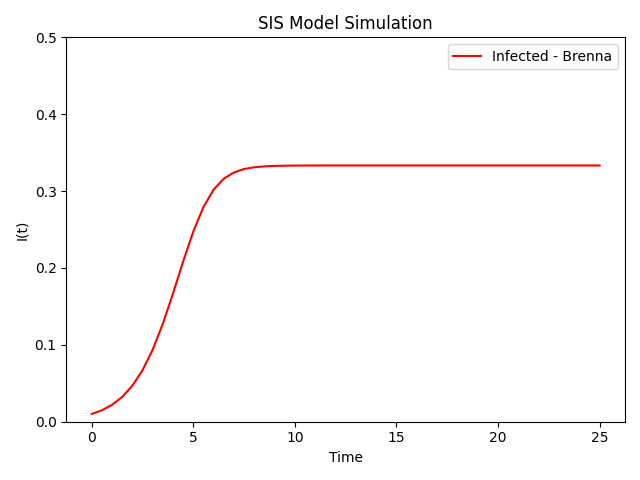
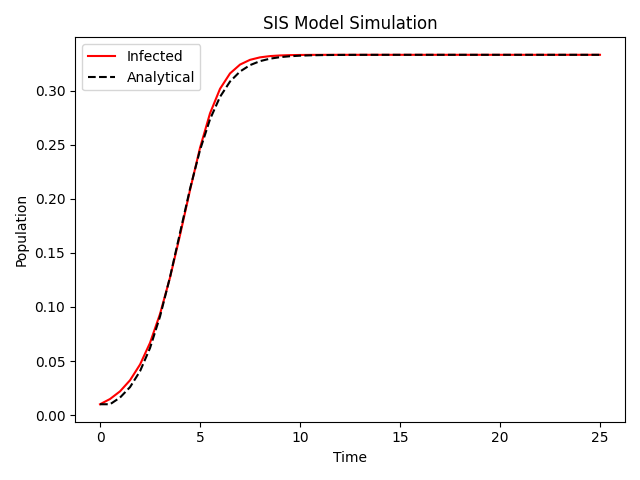
analytical soln

diff --git a/hw2/sis.py b/hw2/sis.py
@@ -25,23 +25,30 @@ def forward_euler_solver(beta, gamma, s_0, i_0, delta_t, t_final):
     suceptibles = [s]
     infected = [i]
     time = [t]
+    analytical = [i]
     
     ind = 1
     
     while t < t_final:
         ## logistic ODE
         i_t = (beta - gamma)*infected[ind-1]*(1-(infected[ind-1]/(1-(1/R_0))))
-        ## closed form soln
-        # if np.isclose(i, 1):  # Check if i is close to 1 to avoid division by zero
-        #     i_t = 1
-        # else:
+        
+        ## closed form soln -- analytical
+        exponential_term = np.exp(-(beta - gamma) * t)
+        analytical_soln = ((1 - (1 / R_0)) / (1 + ((1 - (1 / R_0)) - i_0) / i_0 * exponential_term))
+
+        # if R_0 != 0:  # Check to avoid division by zero
         #     exponential_term = np.exp(-(beta - gamma) * t)
-        #     fraction_term = ((1 - (1 / R_0)) / (1 + (1 - (1 / R_0) - i_0) / (R_0 * i_0)))
-        #     i_t = 1 - fraction_term * i_0 * exponential_term
+        #     analytical_soln = (1 - (1 / R_0)) / (1 + (1 - (1 / R_0) - i_0) / (R_0 - i_0)) * i_0 * exponential_term
+        # else:
+        #     analytical_soln = 1  # Handle division by zero by setting analytical solution to 1
 
         # appends to lists
         i_next = (i_t * delta_t) + infected[ind-1]
+        a_next = (analytical_soln * delta_t) + analytical[ind-1]
+        
         infected.append(i_next)
+        analytical.append(analytical_soln)
         
         # updates time
         t += delta_t
@@ -50,9 +57,11 @@ def forward_euler_solver(beta, gamma, s_0, i_0, delta_t, t_final):
         # updates current SIS values to the new step
         i =  i_t
         
+        # updates index
         ind += 1
         
-
     print(infected)
+    print(analytical)
+    
     # returns a list of lists
-    return [suceptibles, infected, time]
+    return [suceptibles, infected, time, analytical]

diff --git a/hw2/plot_sis.py b/hw2/plot_sis.py
@@ -59,16 +59,18 @@ def main():
     # S = data[0]
     I = data[1]
     time = data[2]
-    
-    # plotting code block
+    analytical = data[3]
+
     fig, ax = plt.subplots()
-    ax.plot(time, I, color = 'red', label = 'Infected - Brenna')
-    ax.set_xlabel('Time')
-    ax.set_ylabel('I(t)')
-    ax.set_ylim(0, 0.5)
-    ax.set_title('SIS Model Simulation')
-    ax.legend()
-    plt.tight_layout()
+    # Plot infected population with solid line
+    ax.plot(time, I, color='red', label='Infected')
+    # Plot analytical solution with dashed line
+    ax.plot(time, analytical, color='black', label='Analytical', linestyle='--')
+    ax.set_xlabel('Time')  # Set x-axis label
+    ax.set_ylabel('Population')  # Set y-axis label to 'Population'
+    ax.set_title('SIS Model Simulation')  # Set plot title
+    ax.legend()  # Add legend
+    plt.tight_layout()  # Adjust layout
 
     # Save plot to file
     plt.savefig(args.output_file)
